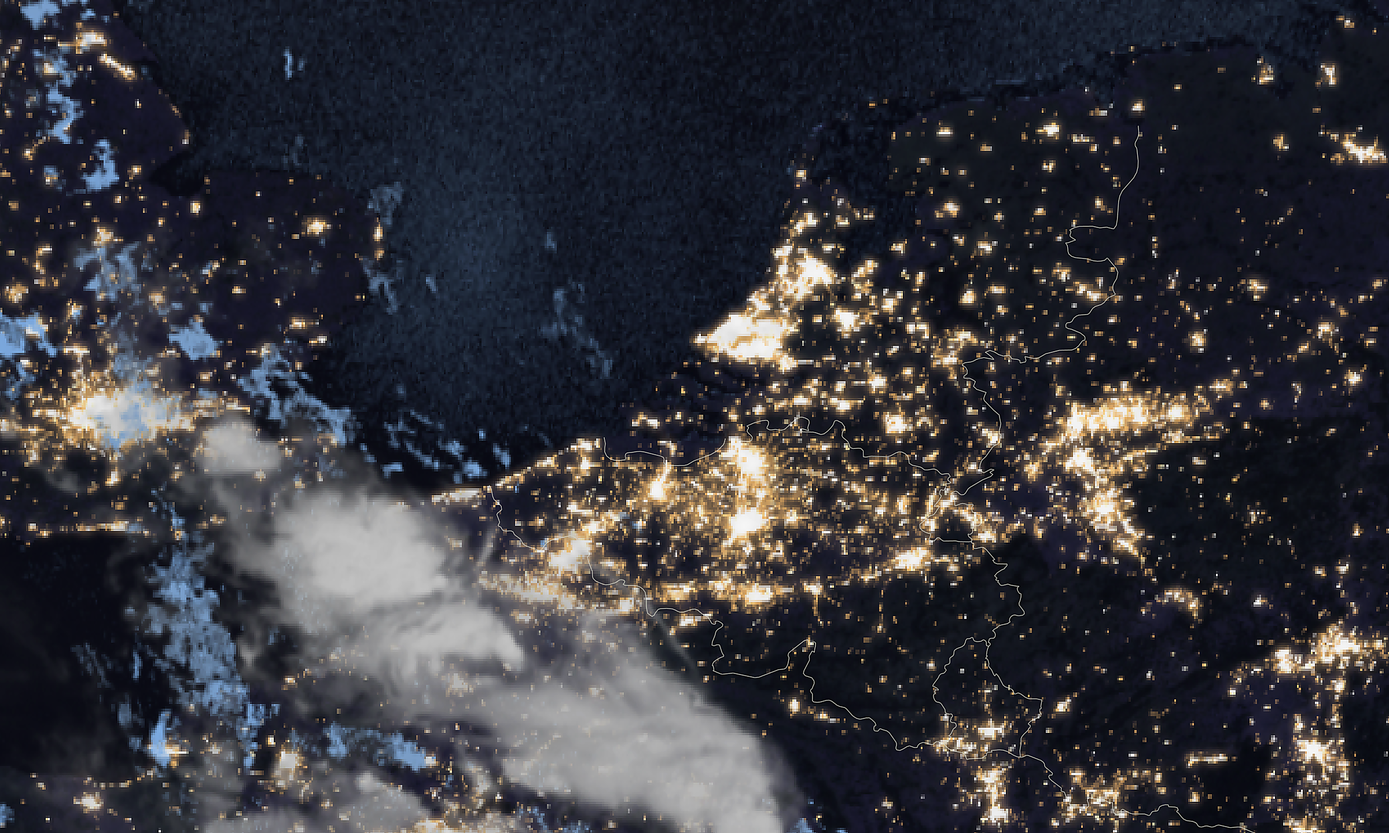
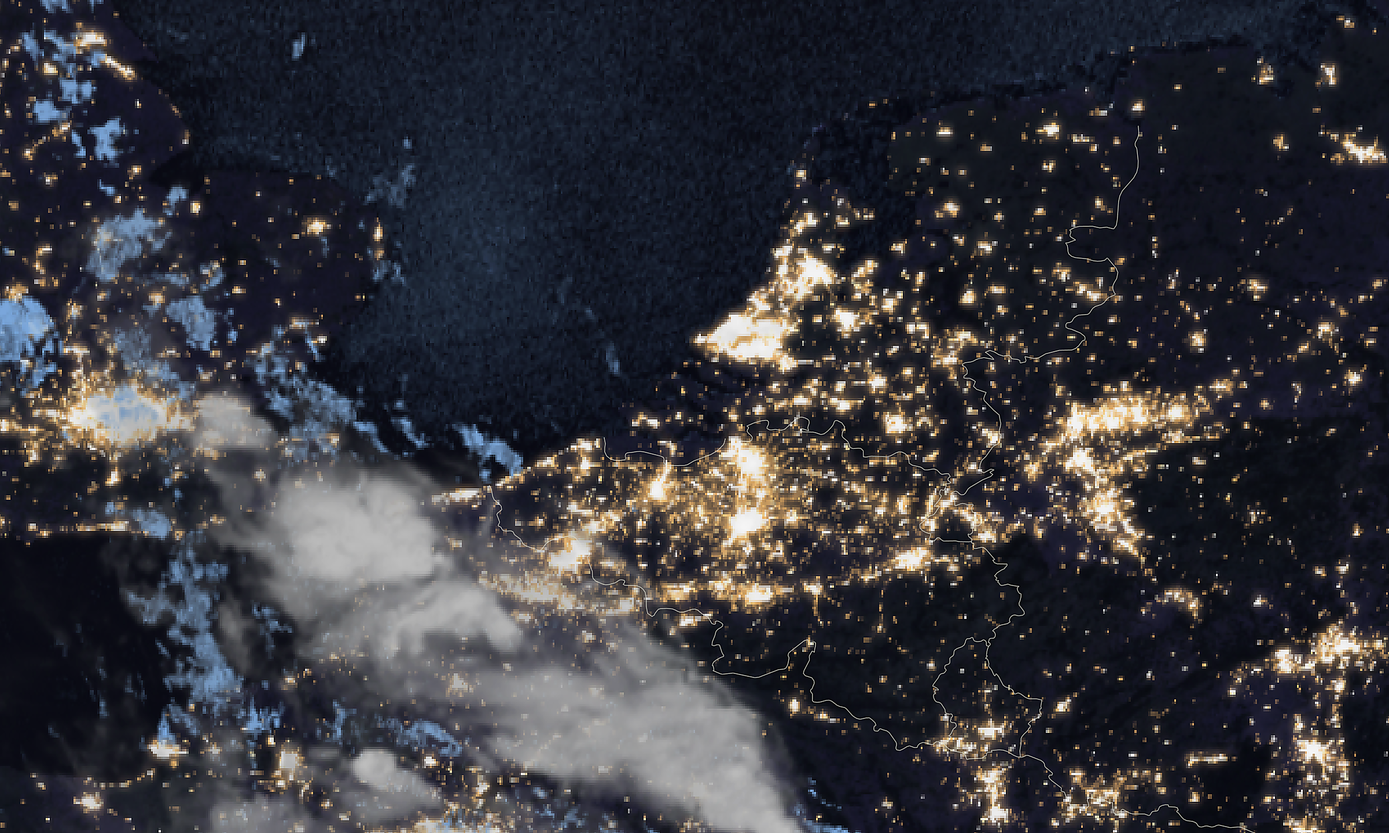
MTG Benelux satellietbeeld update 2026-05-01 23:15

diff --git a/mtg_benelux_meta.js b/mtg_benelux_meta.js
@@ -1,2 +1,2 @@
 const MTG_BENELUX_PRODUCT = "mtg_fd:rgb_geocolour";
-const MTG_BENELUX_TIJD = "2026-05-01T20:40:00Z";
+const MTG_BENELUX_TIJD = "2026-05-01T20:50:00Z";
